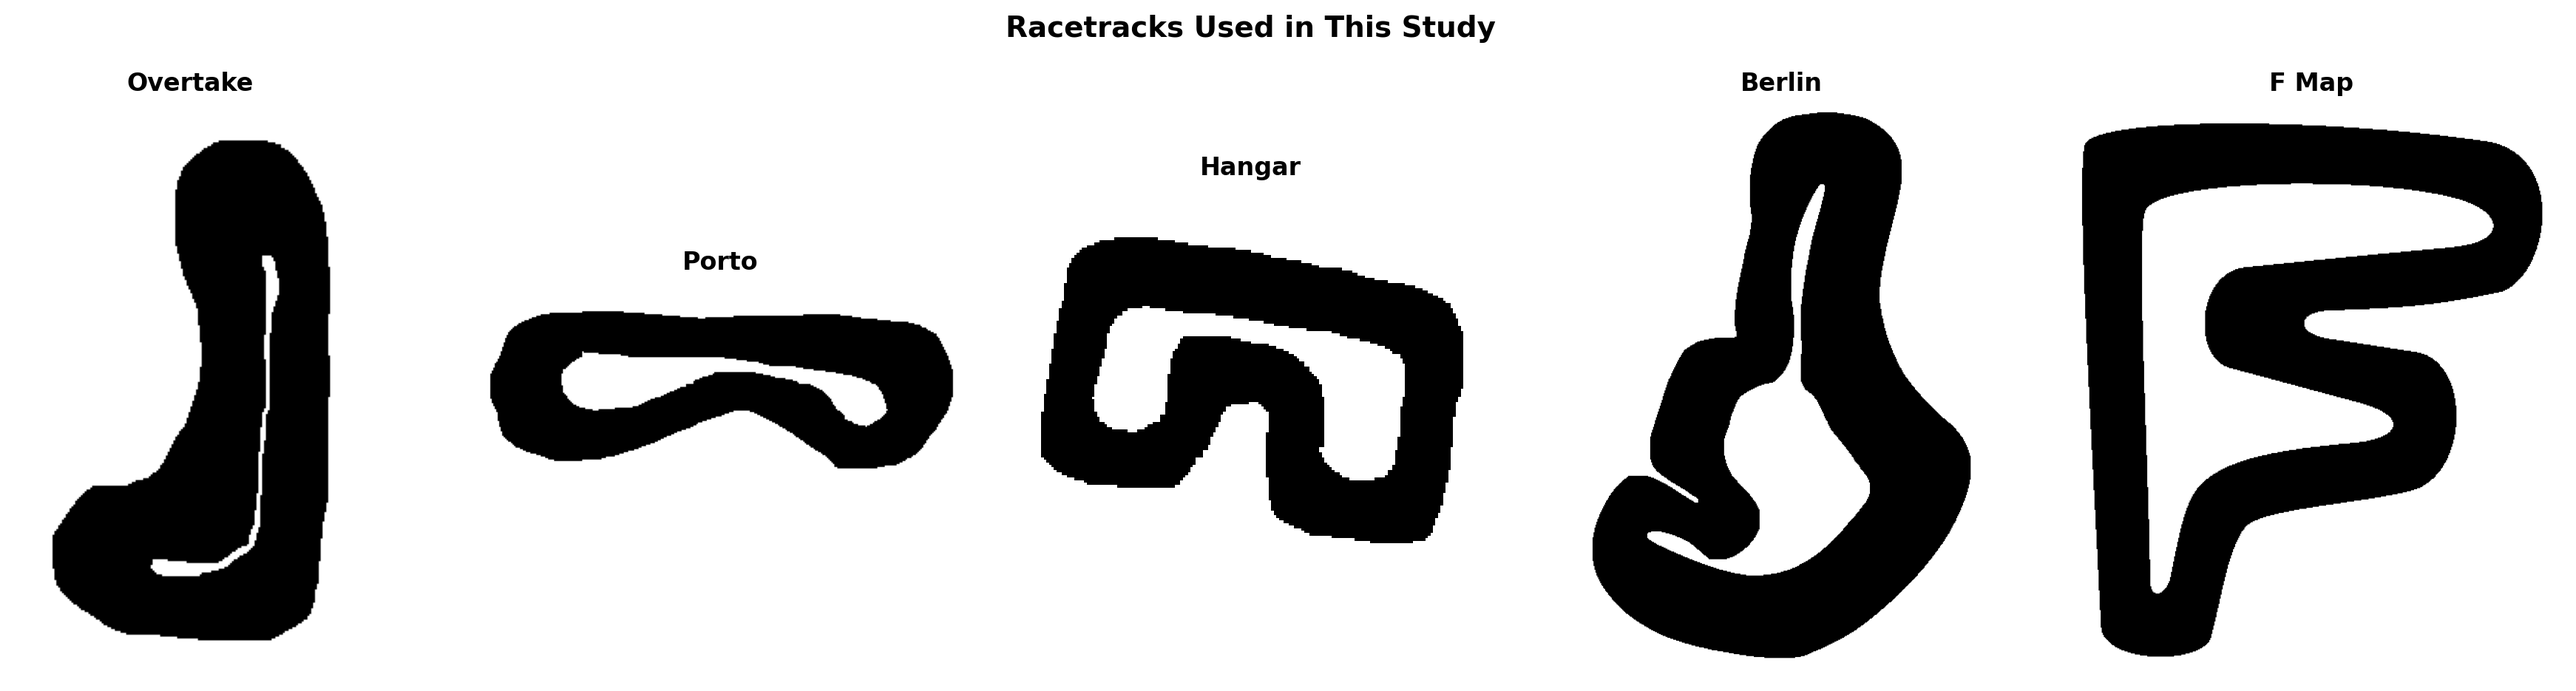
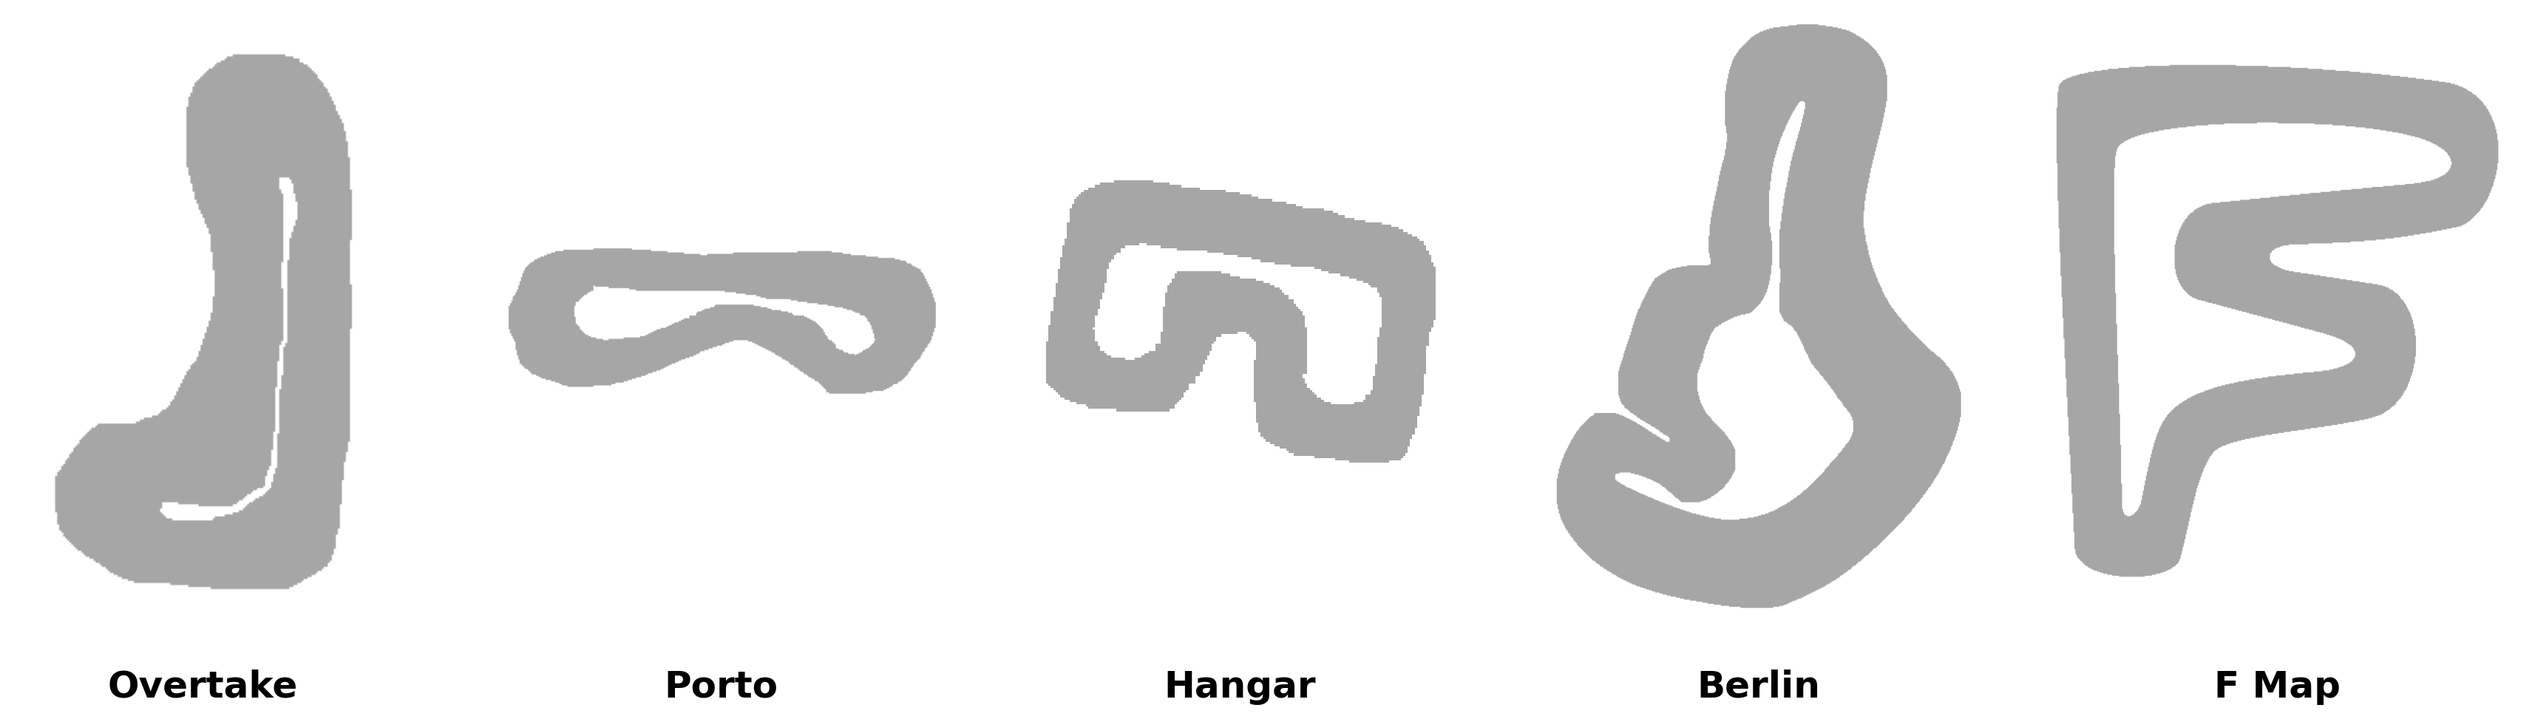
some changes in the graphs

diff --git a/src/Data/execution_files/plot_trajectories.py b/src/Data/execution_files/plot_trajectories.py
@@ -3,7 +3,7 @@
 plot_trajectories.py — generates two paper figures:
 
     fig4_maps.png          racetrack layout overview (all 5 maps)
-    fig10_trajectories.png MAP vs NN trajectory comparison (all 5 maps)
+    fig8_trajectories.png MAP vs NN trajectory comparison (all 5 maps)
 
 Requires in bag_files/:
     run_<map>_0.825.bag    MAP controller closed-loop run
@@ -15,6 +15,7 @@ Usage:
 """
 
 import os
+import shutil
 import numpy as np
 import yaml
 import rosbag
@@ -22,11 +23,13 @@ import matplotlib.pyplot as plt
 import matplotlib.patches as mpatches
 from PIL import Image
 
+PAPER_DIR = os.path.expanduser('~/Desktop/paper/figures')
+
 BAG_DIR = os.path.expanduser('~/f110_ws/src/Data/bag_files')
 MAP_DIR = os.path.expanduser('~/f110_ws/src/F110_ROS_Simulator/maps')
 OUT_DIR = os.path.expanduser('~/f110_ws/src/Data/plots&fig')
 OUT_FIG4  = os.path.join(OUT_DIR, 'fig4_maps.png')
-OUT_FIG10 = os.path.join(OUT_DIR, 'fig10_trajectories.png')
+OUT_FIG8  = os.path.join(OUT_DIR, 'fig8_trajectories.png')
 
 MAP_C = '#1565C0'   # blue  — MAP controller
 NN_C  = '#E65100'   # orange — NN controller
@@ -37,13 +40,13 @@ SKIP = 80  # messages to drop at bag start (avoids launch transients)
 MAPS = [
     dict(label='Overtake', map_dir='overtake_map', map_file='overtake_map',
          map_bag='run_overtakemap_0.825.bag', nn_bag='nn_overtake_map_0.825.bag',
-         n_pts=None, one_lap=False),
+         n_pts=None, one_lap=True),
     dict(label='Porto',    map_dir='porto',        map_file='porto',
          map_bag='run_porto_0.825.bag',       nn_bag='nn_porto_0.825.bag',
-         n_pts=None, one_lap=False),
+         n_pts=None, one_lap=True),
     dict(label='Hangar',   map_dir='hangar',       map_file='hangar',
          map_bag='run_hangar_0.825.bag',      nn_bag='nn_hangar_0.825.bag',
-         n_pts=None, one_lap=False),
+         n_pts=None, one_lap=True),
     dict(label='Berlin',   map_dir='berlin',       map_file='berlin',
          map_bag='run_berlin_0.825.bag',      nn_bag='nn_berlin_0.825.bag',
          n_pts=None, one_lap=True),
@@ -105,27 +108,40 @@ def crop_bounds(img, pad=20):
 
 def plot_maps():
     """Fig 4 — racetrack layout overview."""
-    fig, axes = plt.subplots(1, 5, figsize=(18, 4.5), facecolor='white')
-    fig.suptitle('Racetracks Used in This Study', fontsize=14, fontweight='bold', y=1.01)
+    fig, axes = plt.subplots(1, 5, figsize=(18, 5), facecolor='white')
+    plt.subplots_adjust(left=0.02, right=0.98, top=0.95, bottom=0.12, wspace=0.08)
 
     for ax, cfg in zip(axes, MAPS):
         img_path = os.path.join(MAP_DIR, cfg['map_dir'], cfg['map_file'] + '.png')
-        img = np.array(Image.open(img_path).convert('L'))
-        r0, r1, c0, c1 = crop_bounds(img)
-        ax.imshow(img[r0:r1, c0:c1], cmap='gray_r', origin='upper', aspect='equal')
-        ax.set_title(cfg['label'], fontsize=12, fontweight='bold', pad=6)
+        img_orig = np.array(Image.open(img_path).convert('L'))
+        r0, r1, c0, c1 = crop_bounds(img_orig)
+        img = 255 - img_orig  # invert: dark track on white background (matches fig11)
+        ax.imshow(img[r0:r1, c0:c1], cmap='gray', vmin=0, vmax=255,
+                  origin='upper', aspect='equal', alpha=0.35)
+        ax.set_facecolor('white')
         ax.axis('off')
 
-    plt.tight_layout(pad=0.5)
+    # Draw labels at a fixed y position in figure coordinates so all names
+    # sit on the same horizontal line regardless of each subplot's aspect ratio.
+    fig.canvas.draw()
+    for ax, cfg in zip(axes, MAPS):
+        bb = ax.get_position()
+        cx = (bb.x0 + bb.x1) / 2
+        fig.text(cx, 0.04, cfg['label'], ha='center', va='center',
+                 fontsize=18, fontweight='bold', transform=fig.transFigure)
+
     os.makedirs(OUT_DIR, exist_ok=True)
+    os.makedirs(PAPER_DIR, exist_ok=True)
     plt.savefig(OUT_FIG4, dpi=200, bbox_inches='tight', facecolor='white')
+    shutil.copy(OUT_FIG4, os.path.join(PAPER_DIR, 'fig4_maps.png'))
     plt.close()
     print(f"Saved -> {OUT_FIG4}")
 
 
 def plot_trajectories():
-    """Fig 10 — MAP vs NN trajectory comparison overlaid on track maps."""
+    """Fig 8 — MAP vs NN trajectory comparison overlaid on track maps."""
     fig, axes = plt.subplots(1, 5, figsize=(18, 5.5), facecolor='white')
+    plt.subplots_adjust(left=0.02, right=0.98, top=0.95, bottom=0.20, wspace=0.08)
 
     for ax, cfg in zip(axes, MAPS):
         print(f"  {cfg['label']} ...", flush=True)
@@ -163,15 +179,22 @@ def plot_trajectories():
 
         ax.imshow(img[r0:r1, c0:c1], cmap='gray', vmin=0, vmax=255,
                   origin='upper', aspect='equal', alpha=0.35)
-        ax.plot(rl_px  - c0, rl_py  - r0, '-', color=RL_C,  lw=1.2, alpha=0.7,  zorder=2)
-        ax.plot(map_px - c0, map_py - r0, '-', color=MAP_C, lw=1.8, alpha=0.85, zorder=3)
-        ax.plot(nn_px  - c0, nn_py  - r0, '-', color=NN_C,  lw=1.8, alpha=0.85, zorder=4)
+        ax.plot(rl_px  - c0, rl_py  - r0, '-', color=RL_C,  lw=2.0, alpha=0.90, zorder=2)
+        ax.plot(map_px - c0, map_py - r0, '-', color=MAP_C, lw=2.0, alpha=0.70, zorder=3)
+        ax.plot(nn_px  - c0, nn_py  - r0, '-', color=NN_C,  lw=2.0, alpha=0.55, zorder=4)
 
         ax.set_xlim(0, c1 - c0)
         ax.set_ylim(r1 - r0, 0)
         ax.set_aspect('equal')
         ax.axis('off')
-        ax.set_title(cfg['label'], fontsize=12, fontweight='bold', pad=6)
+
+    # Place map labels below each subplot on a single consistent horizontal line
+    fig.canvas.draw()
+    for ax, cfg in zip(axes, MAPS):
+        bb = ax.get_position()
+        cx = (bb.x0 + bb.x1) / 2
+        fig.text(cx, 0.10, cfg['label'], ha='center', va='center',
+                 fontsize=18, fontweight='bold', transform=fig.transFigure)
 
     handles = [
         mpatches.Patch(color=RL_C,  label='Racing line (reference)'),
@@ -179,14 +202,12 @@ def plot_trajectories():
         plt.Line2D([0], [0], color=NN_C,  lw=2.5, label='Our Method (NN)'),
     ]
     fig.legend(handles=handles, loc='lower center', ncol=3, fontsize=11,
-               frameon=True, bbox_to_anchor=(0.5, -0.02), framealpha=0.95, edgecolor='#cccccc')
-    fig.suptitle('Trajectories at Velocity Scale 0.825 — All Five Racetracks',
-                 fontsize=14, fontweight='bold', y=1.02)
+               frameon=True, bbox_to_anchor=(0.5, -0.01), framealpha=0.95, edgecolor='#cccccc')
 
-    plt.tight_layout(pad=0.8, w_pad=0.8)
-    plt.savefig(OUT_FIG10, dpi=200, bbox_inches='tight', facecolor='white')
+    plt.savefig(OUT_FIG8, dpi=200, bbox_inches='tight', facecolor='white')
+    shutil.copy(OUT_FIG8, os.path.join(PAPER_DIR, 'fig8_trajectories.png'))
     plt.close()
-    print(f"Saved -> {OUT_FIG10}")
+    print(f"Saved -> {OUT_FIG8}")
 
 
 if __name__ == '__main__':

diff --git a/src/Data/execution_files/Researchpaper_charts.py b/src/Data/execution_files/Researchpaper_charts.py
@@ -102,11 +102,12 @@ ax.set_xlabel('Velocity Scale', fontsize=12)
 for i in range(len(maps_plain)):
     for j in range(len(speeds)):
         val = data[i, j]
+        txt_color = 'white' if (val < 30 or val > 75) else 'black'
         ax.text(j, i, f'{val:.0f}%', ha='center', va='center',
-                fontsize=11, fontweight='bold', color='white' if val < 30 else 'black')
+                fontsize=11, fontweight='bold', color=txt_color)
 plt.colorbar(im, ax=ax, shrink=0.9, label='Completion %')
 plt.tight_layout()
-save('fig6_map_heatmap.png')
+save('fig5_map_heatmap.png')
 
 
 # Fig 7 — Our Method completion heatmap
@@ -124,11 +125,12 @@ ax.set_xlabel('Velocity Scale', fontsize=12)
 for i in range(len(maps_plain)):
     for j in range(len(speeds)):
         val = data[i, j]
+        txt_color = 'white' if (val < 30 or val > 75) else 'black'
         ax.text(j, i, f'{val:.0f}%', ha='center', va='center',
-                fontsize=11, fontweight='bold', color='white' if val < 30 else 'black')
+                fontsize=11, fontweight='bold', color=txt_color)
 plt.colorbar(im, ax=ax, shrink=0.9, label='Completion %')
 plt.tight_layout()
-save('fig7_ml_heatmap.png')
+save('fig6_ml_heatmap.png')
 
 
 # Fig 8 — lateral error bar chart at 0.825
@@ -141,10 +143,10 @@ b1 = ax.bar(x - w/2, map_le, w, label='MAP',                       color=MAP_C, 
 b2 = ax.bar(x + w/2, ml_le,  w, label='Our Method (Leave-One-Out)', color=ML_C,  edgecolor='black', alpha=0.85)
 for bar, val in zip(b1, map_le):
     ax.text(bar.get_x() + bar.get_width()/2, bar.get_height() + 0.003,
-            f'{val:.3f}m', ha='center', va='bottom', fontsize=10, fontweight='bold', color=MAP_C)
+            f'{val:.3f}m', ha='center', va='bottom', fontsize=12, fontweight='bold', color=MAP_C)
 for bar, val in zip(b2, ml_le):
     ax.text(bar.get_x() + bar.get_width()/2, bar.get_height() + 0.003,
-            f'{val:.3f}m', ha='center', va='bottom', fontsize=10, fontweight='bold', color=ML_C)
+            f'{val:.3f}m', ha='center', va='bottom', fontsize=12, fontweight='bold', color=ML_C)
 ax.set_xticks(x)
 ax.set_xticklabels(maps_plain, fontsize=13)
 ax.set_title('Average Lateral Error at Velocity Scale 0.825\n(Leave-One-Map-Out: each map withheld entirely from training)',
@@ -153,7 +155,7 @@ ax.set_ylabel('Lateral Error (m)', fontsize=12)
 ax.legend(fontsize=12)
 ax.grid(True, alpha=0.3, axis='y')
 plt.tight_layout()
-save('fig8_lateral_error.png')
+save('fig7_lateral_error.png')
 
 
 # Fig 9 — max stable speed bar chart
@@ -180,9 +182,7 @@ for bar, val, mv in zip(b4, ml_limit, map_limit):
                     bbox=dict(boxstyle='round,pad=0.2', facecolor='#E8F5E9',
                               edgecolor='#2E7D32', lw=1.2))
 ax.set_xticks(x)
-ax.set_xticklabels(maps_plain, fontsize=13)
-ax.set_title('Maximum Stable Velocity Scale by Map\n(Leave-One-Map-Out: each map withheld entirely from training)',
-             fontsize=14, fontweight='bold', pad=12)
+ax.set_xticklabels(maps_plain, fontsize=14, fontweight='bold')
 ax.set_ylabel('Max Stable Velocity Scale', fontsize=12)
 ax.set_ylim(0.50, 1.20)
 ax.axhline(y=1.0, color='green', lw=2, linestyle='--', alpha=0.4, label='Scale 1.0')
